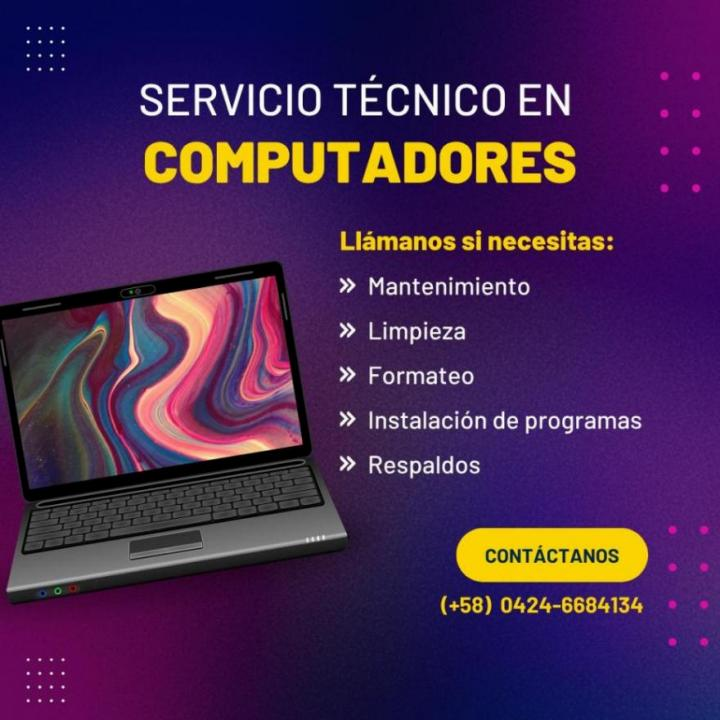
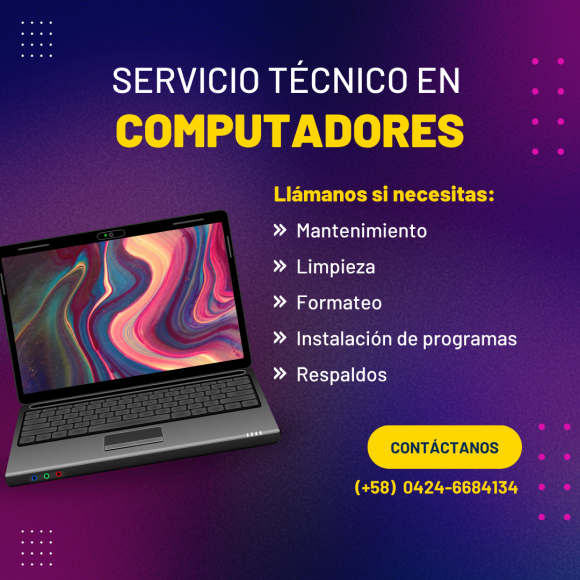
Puedes ajustar la resolucion de las imagenes en las tarjetas de servicio

diff --git a/src/app/servicios/page.tsx b/src/app/servicios/page.tsx
@@ -28,12 +28,12 @@ export default function ServiciosPage() {
             const imgData = PlaceHolderImages.find(p => p.id === servicio.imagen);
             return (
               <Card key={servicio.id} id={servicio.id} className="flex flex-col h-full border-none shadow-soft hover:shadow-2xl transition-all duration-500 rounded-none bg-card overflow-hidden group">
-                <div className="relative aspect-[98/60] w-full overflow-hidden">
+                <div className="relative aspect-[980/580] w-full overflow-hidden">
                   <Image 
                     src={imgData?.imageUrl || ''} 
                     alt={servicio.titulo} 
                     width={980}
-                    height={600}
+                    height={580}
                     className="w-full h-full object-cover group-hover:scale-110 transition-transform duration-1000 opacity-90 hover:opacity-100"
                     data-ai-hint={imgData?.imageHint}
                   />

diff --git a/CHANGELOG.md b/CHANGELOG.md
@@ -2,6 +2,11 @@
 
 Todos los cambios notables en este proyecto serán documentados en este archivo.
 
+## [1.1.2] - 2026-08-07
+### Ajustado
+- **Resolución de Imágenes**: Ajuste de las dimensiones en tarjetas de servicios a 980x580 píxeles para mejorar la proporción visual.
+- **Servicios**: Actualización integral de la oferta de Diseño Web Profesional con modelo de prueba de 31 días.
+
 ## [1.1.1] - 2026-08-06
 ### Ajustado
 - **UI de Modales**: Ajuste final de la altura de imagen a 300px en el modal de portafolio para optimizar el área de lectura.
